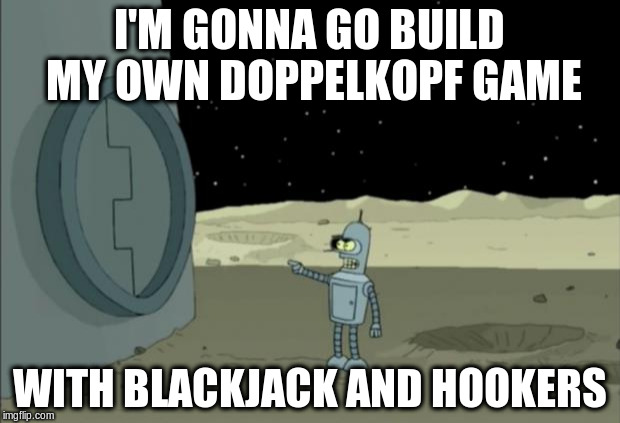
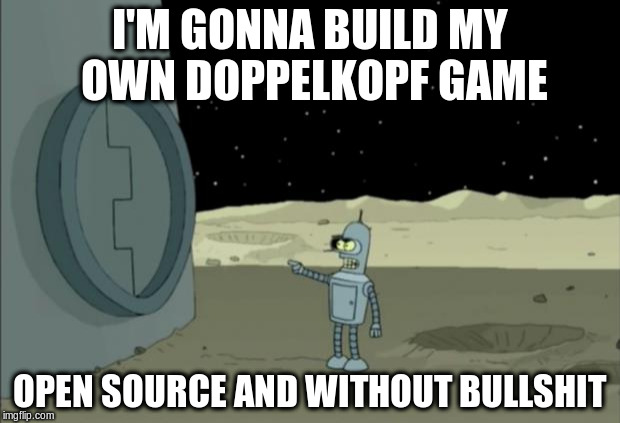
change bender image caption

Changed region(s): [[0.0613, 0.0, 0.95, 0.2459], [0.0, 0.8605, 1.0, 0.9835]]

diff --git a/_posts/2017-11-26-doppelkopf.md b/_posts/2017-11-26-doppelkopf.md
@@ -29,10 +29,9 @@ At one point I thought that I should have some practice to improve my game. As y
 
 ## I'll Build My Own Doppelkopf Game
 
-Being a developer I obviously found the best solution for this problem. _"I'm gonna build this myself!"_ was my proclaimed goal. 
+Being a software developer I obviously found the best solution for this problem. _"I'm gonna build this myself!"_ was my proclaimed goal. 
 
 ![I'll build my own game](/assets/img/uploads/doppelkopf-bender.jpg)
-_Probably not blackjack and hookers though_
 
 Yeah, right, because that always works so well. Having quite a track record for starting side projects that I never finish (who hasn't?) I know I'm probably lying to myself when I say that I'll definitely finish that one. Still, I decided to build my own game, mainly for two reasons:
 
